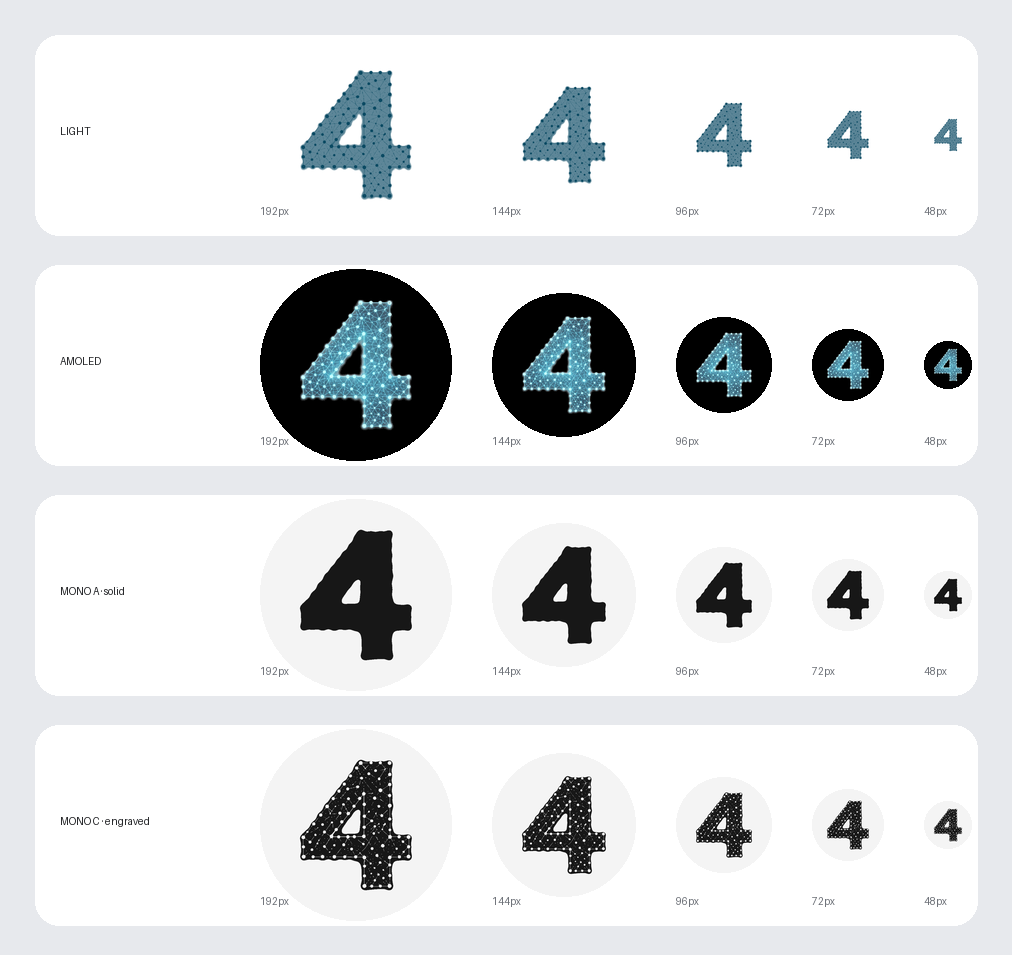
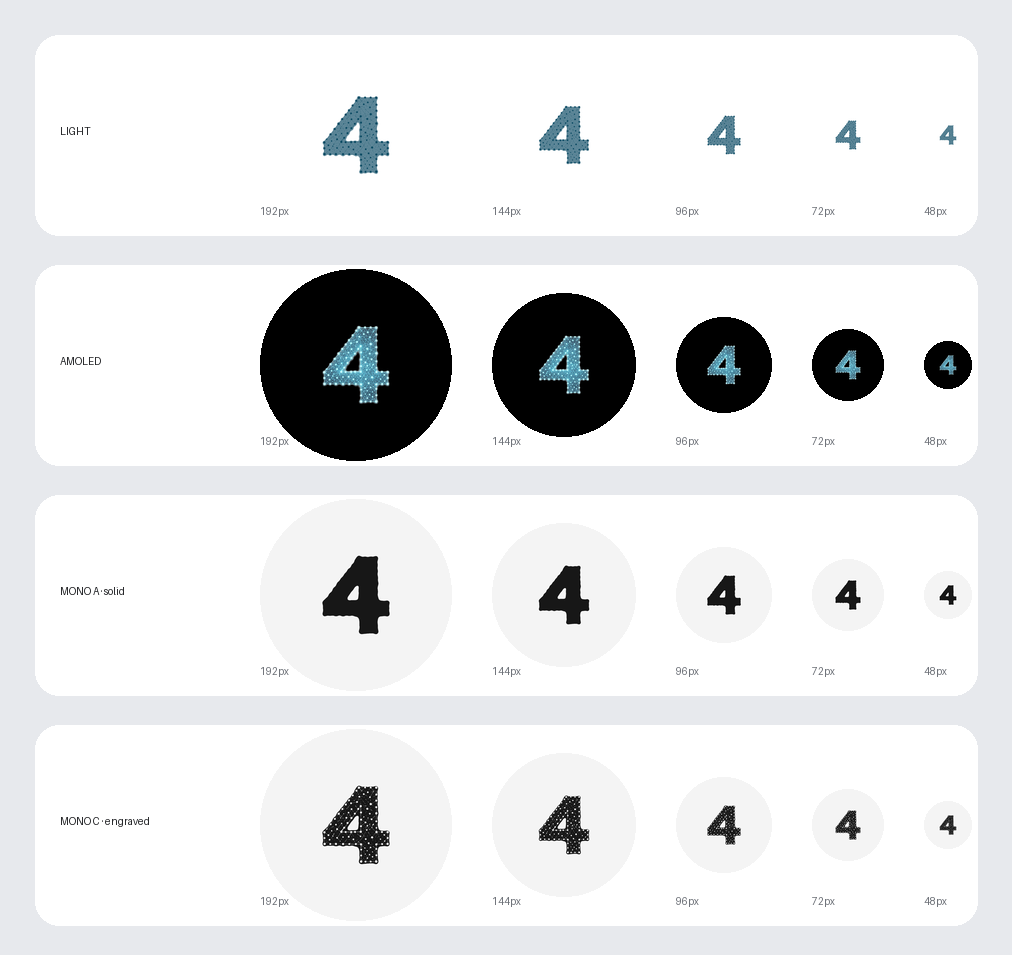
feat(appicon): неоновая «4» как вариант иконки приложения
Добавляет вариант neon_four в пикер иконок: светящаяся решётчатая
четвёрка на белом фоне в светлой теме и на чёрном (amoled_background_base)
в тёмной. Присланная тёмно-синяя плашка с дорожками не используется:
adaptive-фон обязан заливать все 108dp, а она несёт собственные скругления
и тень.

Подключено штатным add_alt_icon.py, поэтому диф аддитивный — ни один
существующий вариант, включая иконку по умолчанию, не тронут.

Геометрия — generate_neon_four_adaptive.py. Знак вписан в 0.406 холста,
а не в 0.68: 68% из SPEC.md считается от КВАДРАТА МАСТЕРА, и у соседних
вариантов знак занимает около 0.60 этого квадрата (four_dark 0.406,
four_blue 0.408). Масштабирование марки прямо в 0.68 давало иконку в
полтора раза крупнее соседей на рабочем столе.

Отдельно решены три вещи, которые мастер не отдаёт сам:

* монохром — сплошной силуэт, а не буквальный вайрфрейм: решётка
  разваливается ниже 96px, а «выгравированный» вариант вымывается под
  тёмной тонировкой Monet, где выбитые ячейки выедают светлый знак;
* просвет четвёрки остаётся вырезом — дырки различаются по размеру,
  ячейки решётки заливаются, счётчик цифры вырезается обратно;
* светлая тема — тёмно-бирюзовые чернила, а не неон: голубое свечение
  на белом невидимо, поэтому решётка и узлы затемняются отдельно от
  заливки.

Из мастера убран водяной знак генератора: иначе он попадал в видимые
границы и центрирование считалось по паре «цифра + клякса».

Проверено на эмуляторе: сборка stableDebug, выбор в пикере, ярлык в
[…]

diff --git a/app/src/main/java/forpdateam/ru/forpda/common/appicon/AppIcons.kt b/app/src/main/java/forpdateam/ru/forpda/common/appicon/AppIcons.kt
@@ -75,6 +75,14 @@ object AppIcons {
                     iconRes = R.mipmap.ic_launcher_puzzle,
                     splashThemeRes = R.style.Theme_ForPDA_Splash_Puzzle,
             ),
+            AppIconVariant(
+                    id = "neon_four",
+                    alias = "forpdateam.ru.forpda.Launcher.NeonFour",
+                    titleRes = R.string.app_icon_neon_four,
+                    subtitleRes = R.string.app_icon_neon_four_desc,
+                    iconRes = R.mipmap.ic_launcher_neon_four,
+                    splashThemeRes = R.style.Theme_ForPDA_Splash_NeonFour,
+            ),
             // app-icon-variants:registry — не удалять, сюда дописывает add_alt_icon.py
     )
 

diff --git a/design/app-icon/generate_neon_four_adaptive.py b/design/app-icon/generate_neon_four_adaptive.py
@@ -21,9 +21,15 @@ OUT = ROOT / "design/app-icon/neon-four-adaptive"
 MASTER = OUT / "neon-four-master.png"
 
 CANVAS = 1080
-# The approved orange P4DA mark measures 0.65 of the canvas on its long side.
-# The spec calls for 0.68; the digit is used at that size in every variant.
-MARK_SCALE = 0.68
+# SPEC.md's 0.68 is measured on the *master square*, not on the mark — that is
+# what add_alt_icon.py applies, and every shipped variant follows it. Their marks
+# fill about 0.60 of their master square, so on the finished canvas they measure
+# 0.41 on the long side (four_dark 0.406, four_blue 0.408, puzzle 0.432).
+# Scaling this mark to 0.68 of the canvas directly made it half again larger than
+# its neighbours, so the same two factors are applied here.
+SPEC_SCALE = 0.68
+MARK_IN_MASTER = 0.60
+MARK_SCALE = SPEC_SCALE * MARK_IN_MASTER
 # Monochrome morphology runs here, not at master size: the filters are O(k²)/px.
 MONO_WORKING_WIDTH = 1080
 # Size and centring are measured on the lattice contour, not on the glow that
